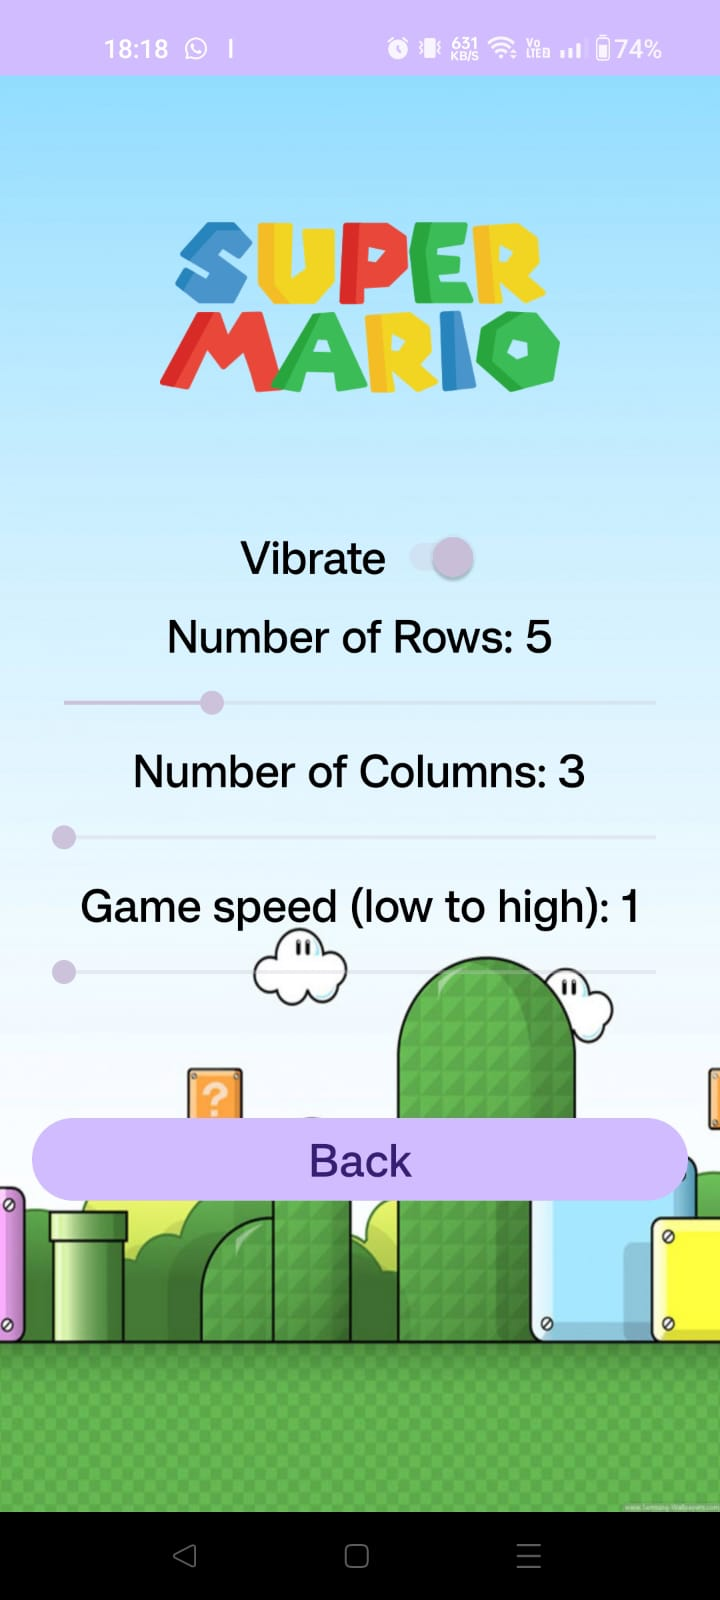
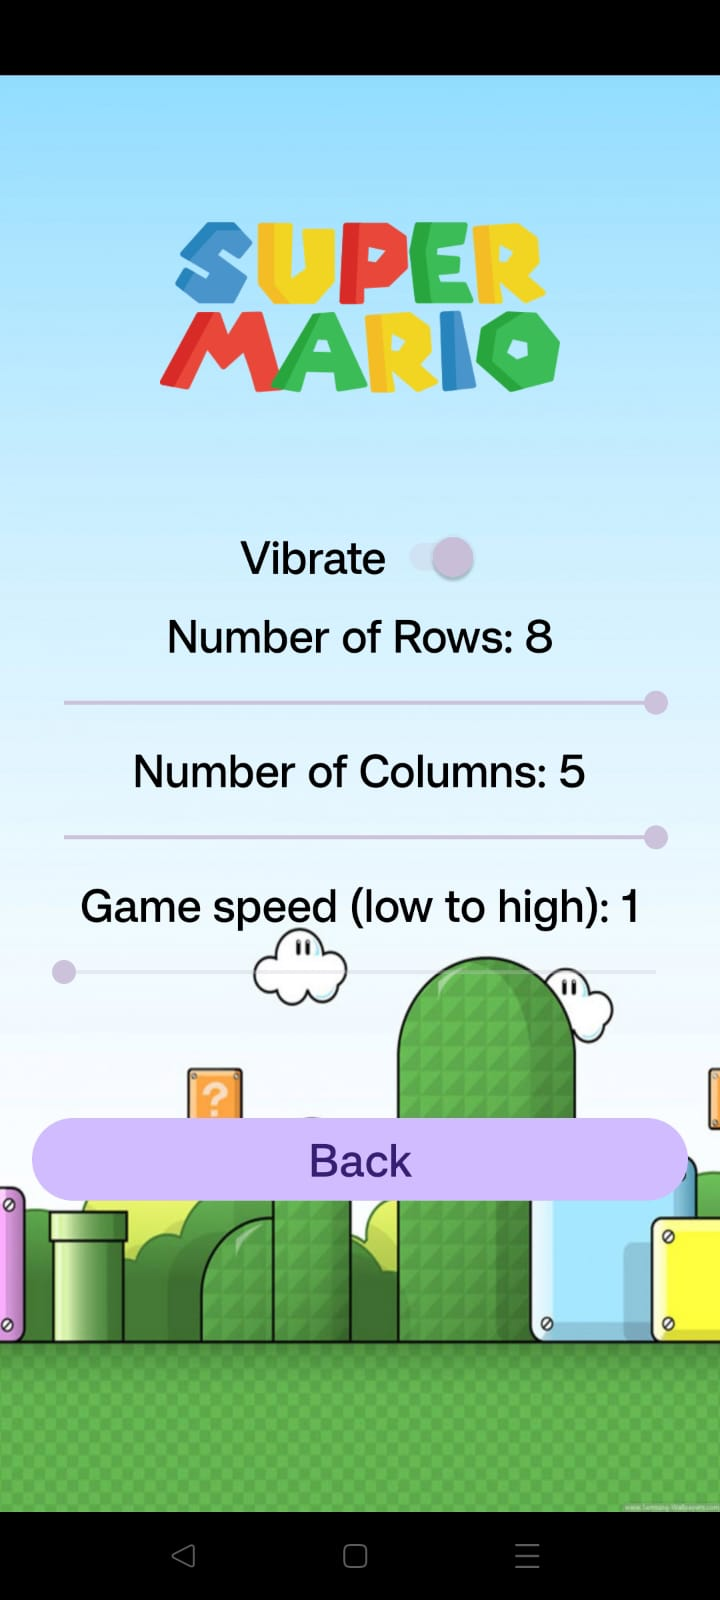
Fix media & readme.md

diff --git a/README.md b/README.md
@@ -1,13 +1,23 @@
-# Exercise No. 2
+# Exercise No. 2 - Super Mario 2
 
 ## Specifics:
-1. Adjustable number of rows (4-8) and columns (3-5).
-2. Adjustable game speed (1-5).
-3. Player that can move left and right.
-4. Obstacles on the road.
-5. Obstacles come at a constant speed on the road (obstacles come towards the player).
-6. Crash notification - toast message + vibration.
-7. 3 lives.
+**1.** Adjustable number of rows (4-8) and columns (3-5) - default is 8 rows and 5 columns.
+**2.** Adjustable game speed (1-5).
+**3.** Obstacles come at a constant speed on the road (obstacles come towards the player).
+**4.** Crash notification - toast message + vibration + sound.
+**5.** 3 Lives.
+**6.** App icon design.
+**7.** 3 Game mods: buttons-fast, buttons-slow, sensors.
+**8.** Sensor mode contains the ability to tilt right/left to move the player.
+**9.** Sensor mode contains the ability to tilt up/down to change game speed.
+
+## New implementations:
+* Using ***Fragments*** - one fragment to the players records and one for a map: a click on specific record will show the player's location on the map
+* Using ***SharedPreferences*** - the player's records are stored on the device's SharedPreferences
+* Using ***Google maps API*** - fetching google maps
+* Using ***Device's location services*** - for setting the longitude and altitude of the players current location
+* Using ***MediaPlayer*** - Used for crash sound ('Ouch')
+* Using ***Adapter & RecyclerView*** - to the Top Ten highscores: designed one object and than by the RecyclerView creates 10 duplications of it
 
 ## Game Flow:
 - **OnPause:** Freezes when exiting the app.
@@ -15,12 +25,20 @@
 - **Timer:** Scheduled appearance of obstacles.
 - **Vibrator & Toast:** Used for every crash.
 
-## Screenshots:
+## Menus screenshots:
 
-| Main Menu | Settings | In-Game |
+| Main Menu | Settings | Game modes | ScoreBoard |
+| --- | --- | --- | --- |
+| <img src="media/MainMenu.jpeg" alt="Main Menu" width="200"/> | <img src="media/Settings.jpeg" alt="Settings" width="200"/> | <img src="media/GameMenu.jpeg" alt="Game modes" width="200"/> | <img src="media/ScoreBoard.jpeg" alt="ScoreBoard" width="200"/> |
+
+## In-Game screenshots:
+
+| Buttons Mode | Sensor Mode | Pause Dialog | Game Over Dialog |
 | --- | --- | --- |
-| <img src="media/main.jpeg" alt="Main Menu" width="200"/> | <img src="media/settings.jpeg" alt="Settings" width="200"/> | <img src="media/ingame.jpeg" alt="In-Game" width="200"/> |
+| <img src="media/ButtonsGame.jpeg" alt="Buttons Mode" width="200"/> | <img src="media/SensorGame.jpeg" alt="Sensor Mode" width="200"/> | <img src="media/PauseDialog.jpeg" alt="Pause Dialog" width="200"/> | <img src="media/GameOverDialog.jpeg" alt="Game Over Dialog" width="200"/> |
 
-## Video Preview:
+## Buttons game Preview:
+https://github.com/SaarGamzo/SuperMario-EX1/assets/88244818/9d6843d0-1cc6-452c-919a-dc1954cfe2c1
 
+## Sensog game Preview:
 https://github.com/SaarGamzo/SuperMario-EX1/assets/88244818/9d6843d0-1cc6-452c-919a-dc1954cfe2c1
